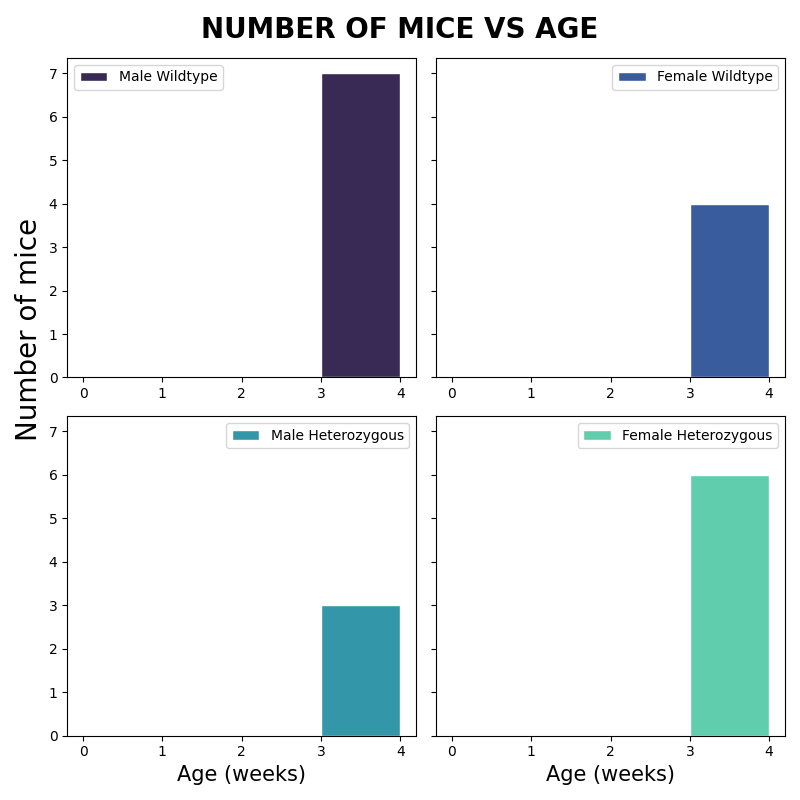
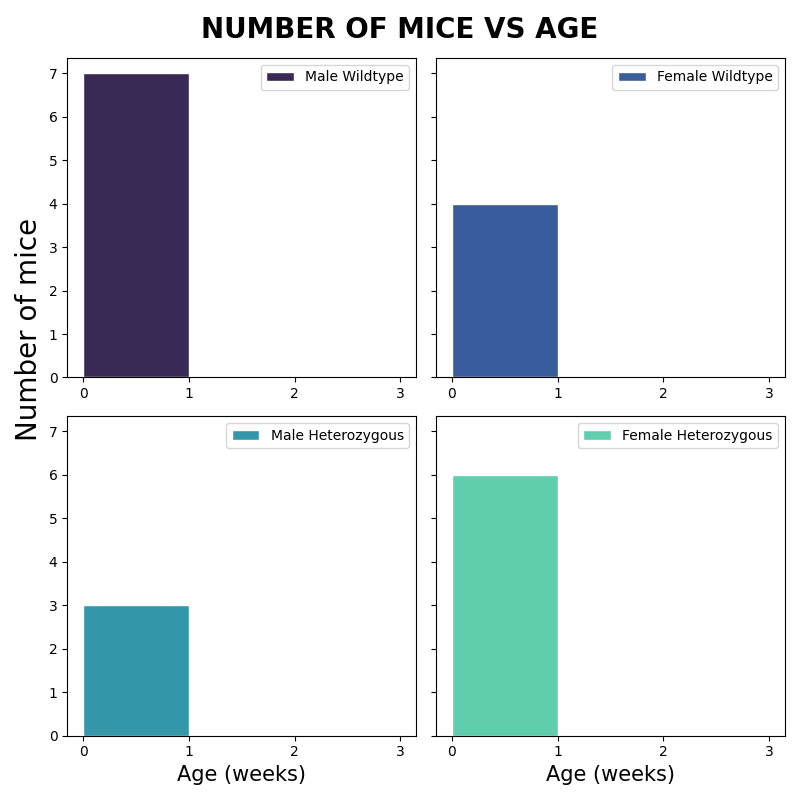
Solved decimal axis problem
Now all of the axis are integers, and share the same distribution as the ones from the other graph. New issue arose, very tiny image when long time passes. I need to save the image as the individual set it up to be, so after the changes he/she wants to make. A way to resolved this is adding a save button.

diff --git a/code/combined_gui.py b/code/combined_gui.py
@@ -331,30 +331,33 @@ class Application(tk.Tk):
         self.listy = []
 
         if len(self.d4) == 4:
-            self.b = 3
+            self.b = 5
         else:
-            self.b = int(max(self.d3))+1
+            self.b = int(max(self.d3))+3
 
-        for i in range(self.b):
-            self.listy.append(i)
-            i = i+1
+        r=0
+
+        for i in range(self.b+1):
+            self.listy.append(r)
+            r = r+1
 
     def plot_individual_hist(self):
 
         self.obtain_data_from_excel()
 
         # Plot
-        plt.ticklabel_format(style='sci')
+        
         fig = plt.figure(figsize=(5, 5), dpi=100)
         f = fig.gca()
-        # ax.xaxis.set_major_locator(MaxNLocator(integer=True))
-        # ax.yaxis.set_major_locator(MaxNLocator(integer=True))
-
-        f.hist(self.d2, bins=self.listy, color=self.colors)
+        
+        f.hist(self.d2, bins=self.listy , color=self.colors)
         f.set_xlabel(r'Age (weeks)', fontsize=15)
         f.set_ylabel(r'Number of mice', fontsize=15)
         f.set_title('NUMBER OF MICE VS AGE',
                     horizontalalignment='center', fontweight="bold", fontsize=20)
+
+        f.xaxis.set_major_locator(MaxNLocator(nbins=len(self.listy)))
+        f.xaxis.set_major_locator(MaxNLocator(integer=True))
 
         f.legend(['M_WT', 'F_WT', 'M_HET', 'F_HET'])
 
@@ -423,6 +426,7 @@ class Application(tk.Tk):
             str(self.plot_4_name)+".png"
         hist_4_plot = plt.savefig(self.filepath_4_plot)
         self.hist_4_plot = openpyxl.drawing.image.Image(self.filepath_4_plot)
+        
 
         return fig, axs
 
@@ -496,6 +500,7 @@ class ExcelDevelopement(Application):
         j = 0
         k = 0
         l = 0
+        
 
         for k in range(4):
             if len(d2[k]) > len(d2[0]):
